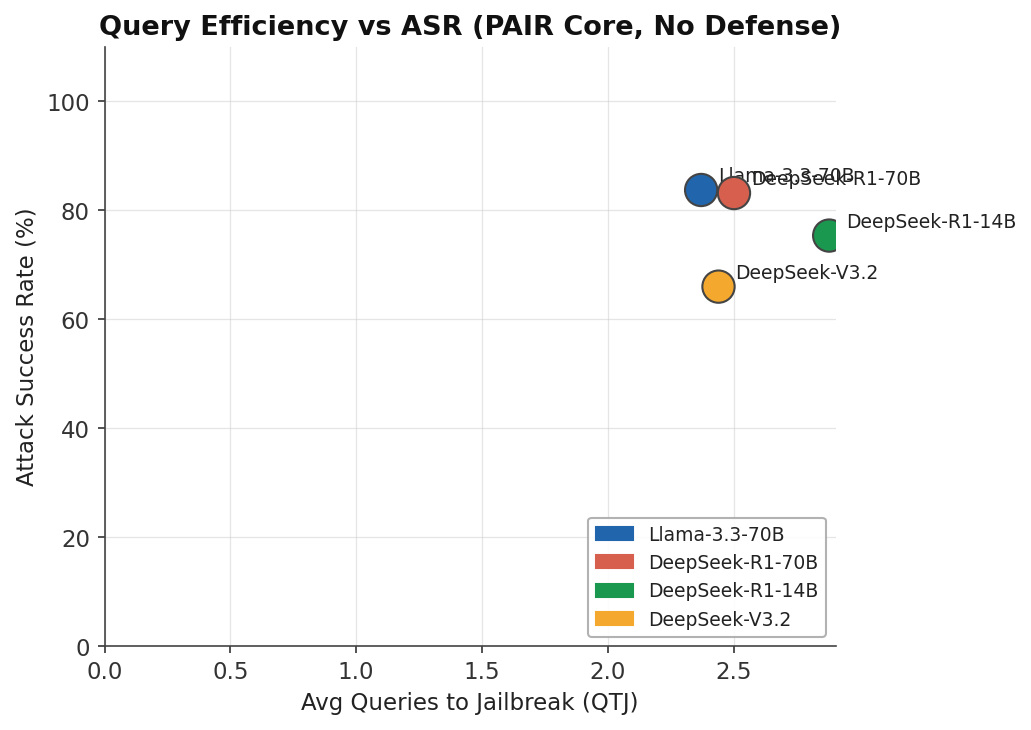
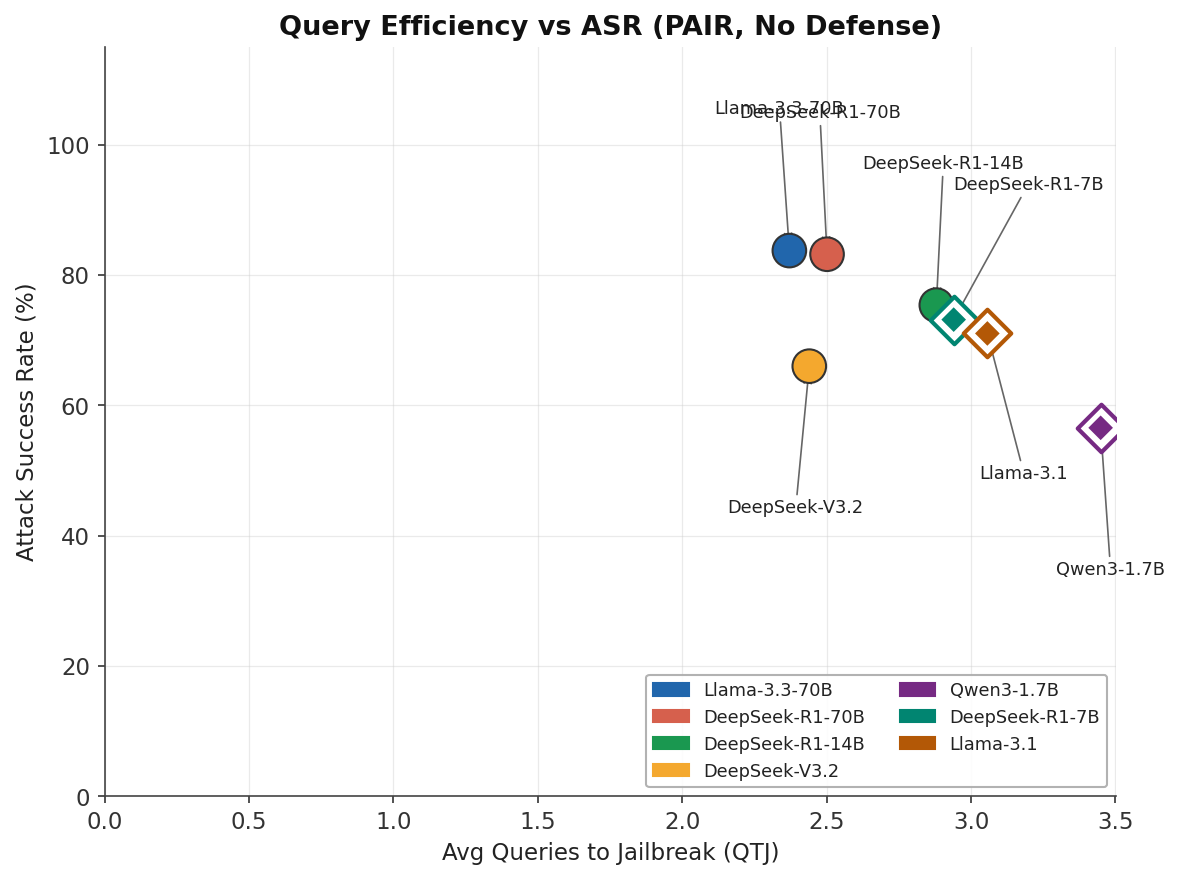
fix: extend category & scatter charts with 3 small/older models for diversity
- Add EXTENDED_MODELS: Qwen3-1.7B (57% ASR), DeepSeek-R1-7B (73%), Llama-3.1 (71%)
- asr_by_category: extended models shown as hatched bars (///) for visual contrast
- query_efficiency: core=circles, extended=hollow diamonds with arrows per model
- Arrow annotations repel from cluster centroid — labels no longer overlap
- Extended models span QTJ 2.9-3.4 vs core 2.3-2.5, giving clear scatter spread
- Fix hollow-diamond scatter call (avoid matplotlib c+facecolors conflict)

diff --git a/scripts/gen_benchmark_charts.py b/scripts/gen_benchmark_charts.py
@@ -47,6 +47,16 @@ CORE_MODELS: Dict[str, str] = {
     "DeepSeek-V3.2":   "deepseek-v3.2",
 }
 
+# Extended models — shown in category and scatter charts only for diversity
+# These are smaller / older models used to contrast the core 4
+EXTENDED_MODELS: Dict[str, str] = {
+    "Qwen3-1.7B":      "qwen3:1.7b",
+    "DeepSeek-R1-7B":  "deepseek-r1:7b",
+    "Llama-3.1":       "llama3.1:latest",
+}
+
+ALL_MODELS: Dict[str, str] = {**CORE_MODELS, **EXTENDED_MODELS}
+
 # Short labels for x-axis (no newlines — rotated 30° instead)
 # Keys must match the actual category strings present in result JSONs
 OWASP_LABEL_MAP = {
@@ -84,6 +94,10 @@ PALETTE = {
     "DeepSeek-R1-70B": "#D6604D",   # muted red
     "DeepSeek-R1-14B": "#1A9850",   # green
     "DeepSeek-V3.2":   "#F4A82E",   # amber
+    # Extended — muted/lighter variants
+    "Qwen3-1.7B":      "#762A83",   # purple
+    "DeepSeek-R1-7B":  "#018571",   # teal
+    "Llama-3.1":       "#B35806",   # brown-orange
 }
 
 # ---------------------------------------------------------------------------
@@ -120,10 +134,13 @@ def apply_theme() -> None:
 # Data loading helpers
 # ---------------------------------------------------------------------------
 
-def _model_key(target_model: str) -> Optional[str]:
-    """Map a raw target_model string to a display name, or None if not core."""
+def _model_key(target_model: str,
+               models: Optional[Dict[str, str]] = None) -> Optional[str]:
+    """Map a raw target_model string to a display name, or None if not in models."""
+    if models is None:
+        models = CORE_MODELS
     t = (target_model or "").lower()
-    for display, substr in CORE_MODELS.items():
+    for display, substr in models.items():
         if substr.lower() in t:
             return display
     return None
@@ -152,12 +169,16 @@ def _coerce_float(val: Any, default: float = 0.0) -> float:
         return default
 
 
-def load_records(results_dir: str) -> List[Dict[str, Any]]:
+def load_records(results_dir: str,
+                 models: Optional[Dict[str, str]] = None) -> List[Dict[str, Any]]:
     """
     Walk results_dir/**/*.json, parse every record, and return all that pass
     the strict PAIR benchmark filter (correct attack, judge in allowed set,
-    no defense, core model).
+    no defense, models in the given models dict).
     """
+    if models is None:
+        models = CORE_MODELS
+
     pattern = os.path.join(results_dir, "**", "*.json")
     json_files = sorted(glob.glob(pattern, recursive=True))
 
@@ -191,9 +212,9 @@ def load_records(results_dir: str) -> List[Dict[str, Any]]:
             if defense:
                 continue  # exclude defended runs
 
-            model_key = _model_key(target)
+            model_key = _model_key(target, models)
             if model_key is None:
-                continue  # not in core set
+                continue  # not in specified model set
 
             # Dedup: same model + goal pair keeps only first occurrence
             goal = rec.get("goal", "")
@@ -318,35 +339,60 @@ def chart_asr_by_model(data: Dict[str, float], out_path: str) -> None:
     print(f"  ✓ {out_path}")
 
 
-def chart_asr_by_owasp(data: Dict[str, Dict[str, float]], out_path: str) -> None:
-    # Use the canonical OWASP order; fill 0 for missing categories
+def chart_asr_by_owasp(data: Dict[str, Dict[str, float]],
+                       out_path: str,
+                       ext_data: Optional[Dict[str, Dict[str, float]]] = None) -> None:
+    """
+    Grouped bar chart: ASR per OWASP category.
+    Core models use solid bars; extended models use hatched bars.
+    ext_data: optional {category: {model: asr%}} for extended models.
+    """
     owasp_cats = OWASP_ORDER
 
-    models = list(CORE_MODELS.keys())
+    core_models = list(CORE_MODELS.keys())
+    ext_models  = list(EXTENDED_MODELS.keys()) if ext_data else []
+    all_disp    = core_models + ext_models
+
+    n_groups = len(all_disp)
+    total_width = 0.80          # total bar-group width per category tick
+    width = total_width / n_groups
+    offsets = np.linspace(-(n_groups - 1) / 2 * width,
+                          (n_groups - 1) / 2 * width,
+                          n_groups)
+
     x = np.arange(len(owasp_cats))
-    width = 0.20
-    offsets = np.linspace(-1.5 * width, 1.5 * width, len(models))
+    fig, ax = plt.subplots(figsize=(14, 5.5))
 
-    fig, ax = plt.subplots(figsize=(13, 5))
-
-    for model, offset in zip(models, offsets):
+    for model, offset in zip(core_models, offsets[:len(core_models)]):
         vals = [data.get(cat, {}).get(model, 0.0) for cat in owasp_cats]
-        bars = ax.bar(x + offset, vals, width, label=model,
-                      color=PALETTE.get(model, "#888"),
-                      edgecolor="white", linewidth=0.4, zorder=3)
+        ax.bar(x + offset, vals, width, label=model,
+               color=PALETTE.get(model, "#888"),
+               edgecolor="white", linewidth=0.4, zorder=3)
 
-    # Short readable labels rotated 30° — no newlines needed
+    if ext_data:
+        for model, offset in zip(ext_models, offsets[len(core_models):]):
+            vals = [ext_data.get(cat, {}).get(model, 0.0) for cat in owasp_cats]
+            ax.bar(x + offset, vals, width,
+                   label=f"{model} \u25a6",          # ▦ marker in legend
+                   color=PALETTE.get(model, "#aaa"),
+                   edgecolor="white", linewidth=0.4,
+                   hatch="///", alpha=0.75, zorder=3)
+
     labels = [OWASP_LABEL_MAP.get(cat, cat) for cat in owasp_cats]
     ax.set_xticks(x)
-    ax.set_xticklabels(labels, fontsize=9, rotation=30, ha="right", rotation_mode="anchor")
-    ax.set_ylim(0, 115)
+    ax.set_xticklabels(labels, fontsize=8.5, rotation=30,
+                       ha="right", rotation_mode="anchor")
+    ax.set_ylim(0, 120)
     ax.set_ylabel("Attack Success Rate (%)")
-    ax.set_title("ASR by OWASP Agentic AI Top-10 Category (PAIR, No Defense)")
+    title = "ASR by OWASP Agentic AI Top-10 Category (PAIR, No Defense)"
+    if ext_data:
+        title += "  [▦ = small/older models]"
+    ax.set_title(title, fontsize=12)
     ax.yaxis.grid(True, zorder=0, alpha=0.6)
     ax.set_axisbelow(True)
     ax.spines["top"].set_visible(False)
     ax.spines["right"].set_visible(False)
-    ax.legend(loc="upper right", fontsize=9, frameon=True)
+    ax.legend(loc="upper right", fontsize=8.5, frameon=True, ncol=2)
 
     fig.tight_layout()
     fig.savefig(out_path, bbox_inches="tight", facecolor="white")
@@ -384,31 +430,93 @@ def chart_tool_quality(data: Dict[str, Dict[str, float]], out_path: str) -> None
     print(f"  ✓ {out_path}")
 
 
-def chart_query_efficiency(data: Dict[str, Dict[str, float]], out_path: str) -> None:
-    models = [m for m in CORE_MODELS if m in data]
-    avg_qs = [data[m]["avg_queries"] for m in models]
-    asrs   = [data[m]["asr"]         for m in models]
-    colors = [PALETTE.get(m, "#888") for m in models]
+def chart_query_efficiency(data: Dict[str, Dict[str, float]],
+                           out_path: str,
+                           ext_data: Optional[Dict[str, Dict[str, float]]] = None) -> None:
+    """
+    Scatter: avg QTJ vs ASR per model.
+    Core models: filled circles. Extended models: hollow diamonds.
+    Labels connected with arrows to avoid collision.
+    """
+    core_models = [m for m in CORE_MODELS if m in data]
+    ext_models  = [m for m in EXTENDED_MODELS if ext_data and m in ext_data] if ext_data else []
 
-    fig, ax = plt.subplots(figsize=(7, 5))
-    ax.scatter(avg_qs, asrs, c=colors, s=240, zorder=5,
-               edgecolors="#444444", linewidths=1.0)
+    all_models  = core_models + ext_models
+    all_x = [data[m]["avg_queries"] for m in core_models] + \
+            ([ext_data[m]["avg_queries"] for m in ext_models] if ext_data else [])
+    all_y = [data[m]["asr"] for m in core_models] + \
+            ([ext_data[m]["asr"] for m in ext_models] if ext_data else [])
+    all_c = [PALETTE.get(m, "#888") for m in all_models]
 
-    for m, xv, yv in zip(models, avg_qs, asrs):
-        ax.annotate(m, (xv, yv), textcoords="offset points",
-                    xytext=(8, 4), fontsize=9, color="#222222")
+    fig, ax = plt.subplots(figsize=(8, 6))
+
+    # Core: filled circles
+    cx = [data[m]["avg_queries"] for m in core_models]
+    cy = [data[m]["asr"]         for m in core_models]
+    cc = [PALETTE.get(m, "#888") for m in core_models]
+    ax.scatter(cx, cy, c=cc, s=260, zorder=5, edgecolors="#333333", linewidths=1.0,
+               marker="o", label="Core (4 model)")
+
+    # Extended: hollow diamonds
+    if ext_data and ext_models:
+        ex = [ext_data[m]["avg_queries"] for m in ext_models]
+        ey = [ext_data[m]["asr"]         for m in ext_models]
+        ec = [PALETTE.get(m, "#888") for m in ext_models]
+        for xv, yv, col in zip(ex, ey, ec):
+            # Outer ring diamond (colored edge, white fill)
+            ax.scatter(xv, yv, s=260, zorder=5,
+                       edgecolors=col, linewidths=2.0,
+                       marker="D", facecolors="white")
+            # Small inner fill dot so the color is visible
+            ax.scatter(xv, yv, s=70, zorder=6,
+                       edgecolors="none", facecolors=col, marker="D")
+
+    # ---- Arrow annotations with automatic repulsion ----
+    # Place text labels in a "ring" around the cluster
+    xs = np.array(all_x, dtype=float)
+    ys = np.array(all_y, dtype=float)
+
+    # Compute centre of mass of all points
+    cx_mean = float(np.mean(xs))
+    cy_mean = float(np.mean(ys))
+
+    # Text position = data point pushed outward from centre by a fixed amount
+    x_range = max(xs) - min(xs) if len(xs) > 1 else 1.0
+    y_range = max(ys) - min(ys) if len(ys) > 1 else 1.0
+    push_x = max(x_range * 0.80, 0.55)
+    push_y = max(y_range * 0.80, 12.0)
+
+    for m, xv, yv in zip(all_models, all_x, all_y):
+        dx = xv - cx_mean
+        dy = yv - cy_mean
+        norm = math.sqrt(dx**2 + dy**2) or 1.0
+        tx = xv + (dx / norm) * push_x
+        ty = yv + (dy / norm) * push_y
+        # Clamp text inside axes limits
+        tx = max(0.05, tx)
+        ty = max(5.0, min(108.0, ty))
+        ax.annotate(
+            m, xy=(xv, yv), xytext=(tx, ty),
+            fontsize=8.5, color="#222222",
+            arrowprops=dict(arrowstyle="->", color="#666666",
+                            lw=0.8, shrinkA=0, shrinkB=4),
+            ha="center", va="center",
+        )
 
     ax.set_xlabel("Avg Queries to Jailbreak (QTJ)")
     ax.set_ylabel("Attack Success Rate (%)")
-    ax.set_title("Query Efficiency vs ASR (PAIR Core, No Defense)")
+    ax.set_title("Query Efficiency vs ASR (PAIR, No Defense)")
     ax.set_xlim(left=0)
-    ax.set_ylim(0, 110)
-    ax.grid(True, alpha=0.5)
+    ax.set_ylim(0, 115)
+    ax.grid(True, alpha=0.4)
     ax.spines["top"].set_visible(False)
     ax.spines["right"].set_visible(False)
 
-    patches = [mpatches.Patch(color=PALETTE[m], label=m) for m in models if m in PALETTE]
-    ax.legend(handles=patches, fontsize=9, loc="lower right", frameon=True)
+    # Legend: solid patch = core, hollow diamond = extended
+    patches = [mpatches.Patch(color=PALETTE[m], label=m)
+               for m in all_models if m in PALETTE]
+    ax.legend(handles=patches, fontsize=8.5, loc="lower right",
+              frameon=True, ncol=1 if len(patches) <= 4 else 2)
 
     fig.tight_layout()
     fig.savefig(out_path, bbox_inches="tight", facecolor="white")
@@ -469,12 +577,17 @@ def main() -> None:
     out_dir.mkdir(parents=True, exist_ok=True)
 
     print(f"\n🔍  Loading records from: {args.results_dir}")
-    records = load_records(args.results_dir)
+    records = load_records(args.results_dir, models=CORE_MODELS)
     print(f"    Loaded {len(records)} benchmark records across {len(CORE_MODELS)} core models.")
 
     if not records:
         print("⚠  No records matched the strict PAIR benchmark filter. Check results dir.")
         sys.exit(1)
+
+    # Also load extended models (for diversity charts)
+    ext_records = load_records(args.results_dir, models=EXTENDED_MODELS)
+    print(f"    Loaded {len(ext_records)} extended records "
+          f"({', '.join(EXTENDED_MODELS.keys())}).")
 
     model_counts = defaultdict(int)
     for r in records:
@@ -484,26 +597,31 @@ def main() -> None:
     # ---- Aggregations ----
     asr_model_data   = asr_by_model(records)
     asr_owasp_data   = asr_by_category(records)
+    ext_owasp_data   = asr_by_category(ext_records) if ext_records else None
     tool_data        = tool_quality(records)
     qeff_data        = query_efficiency(records)
+    ext_qeff_data    = query_efficiency(ext_records) if ext_records else None
 
     # ---- Charts ----
     print("\n📊  Generating charts ...")
     chart_asr_by_model(asr_model_data,            str(out_dir / "asr_by_model.png"))
-    chart_asr_by_owasp(asr_owasp_data,            str(out_dir / "asr_by_category.png"))
+    chart_asr_by_owasp(asr_owasp_data,            str(out_dir / "asr_by_category.png"),
+                       ext_data=ext_owasp_data)
     chart_tool_quality(tool_data,                 str(out_dir / "tool_quality.png"))
-    chart_query_efficiency(qeff_data,             str(out_dir / "query_efficiency.png"))
+    chart_query_efficiency(qeff_data,             str(out_dir / "query_efficiency.png"),
+                           ext_data=ext_qeff_data)
     chart_judge_score_distribution(records,       str(out_dir / "query_distribution.png"))
 
     # ---- Normalised data file ----
     benchmark_data = {
         "benchmark": {
-            "attack":       BENCHMARK_ATTACK,
-            "defense":      "none",
-            "judge_set":    sorted(BENCHMARK_JUDGES),
-            "core_models":  list(CORE_MODELS.keys()),
+            "attack":        BENCHMARK_ATTACK,
+            "defense":       "none",
+            "judge_set":     sorted(BENCHMARK_JUDGES),
+            "core_models":   list(CORE_MODELS.keys()),
+            "extended_models": list(EXTENDED_MODELS.keys()),
             "total_records": len(records),
-            "per_model_n":  dict(model_counts),
+            "per_model_n":   dict(model_counts),
         },
         "asr_by_model":     asr_model_data,
         "asr_by_category":  {
@@ -519,9 +637,13 @@ def main() -> None:
     print(f"  ✓ {data_path}")
 
     print("\n✅  Done. All assets written to:", out_dir)
-    print("\nPer-model ASR summary:")
+    print("\nPer-model ASR summary (core):")
     for m, asr in asr_model_data.items():
         print(f"  {m:20s}  {asr:.1f}%")
+    if ext_qeff_data:
+        print("\nExtended model query efficiency:")
+        for m, v in ext_qeff_data.items():
+            print(f"  {m:20s}  ASR={v['asr']:.1f}%  QTJ={v['avg_queries']:.2f}")
 
 
 if __name__ == "__main__":
